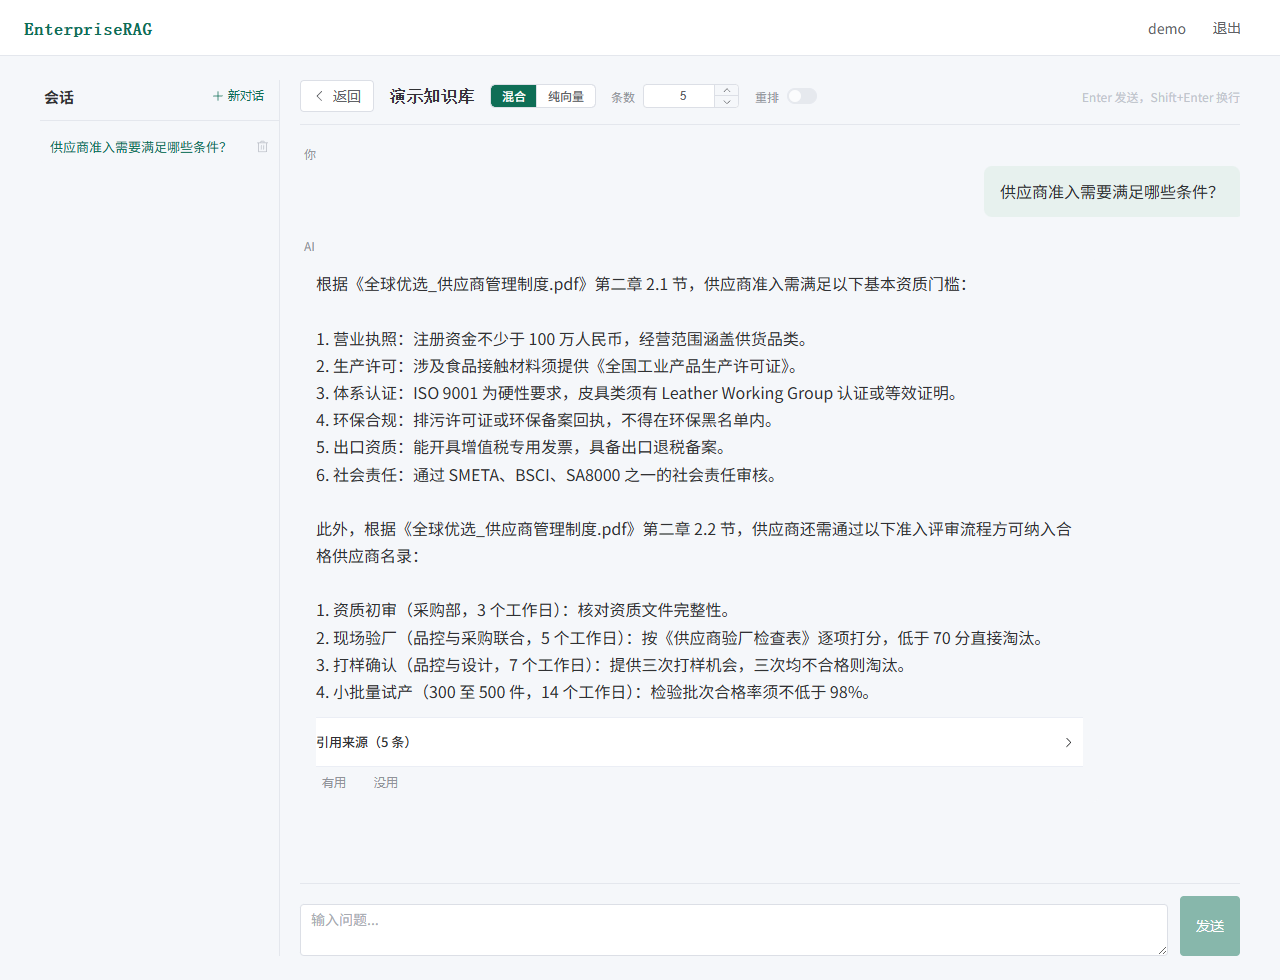
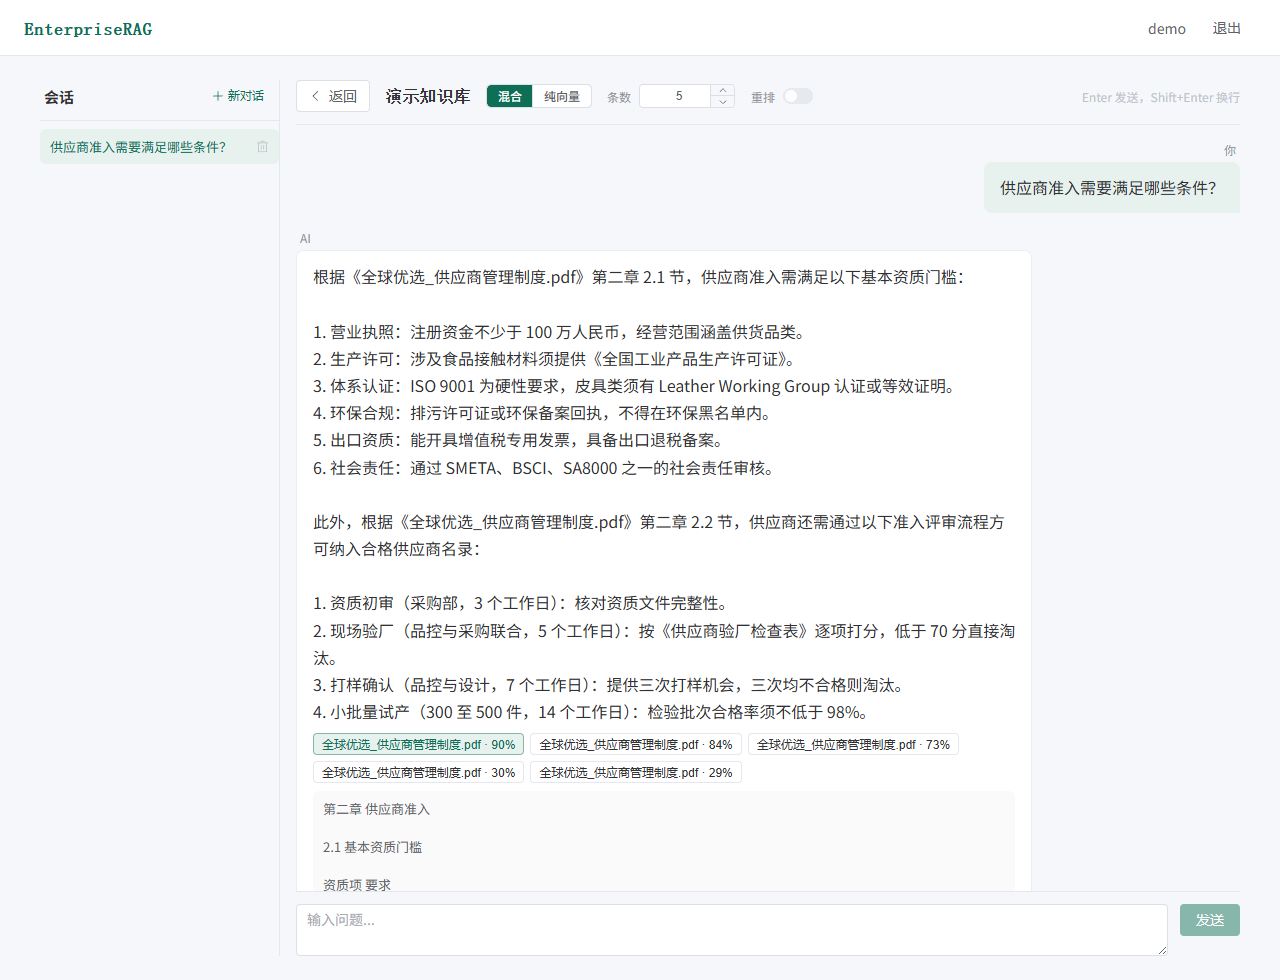
docs(design): Known Gaps 9 项清零收尾 —— DESIGN.md 十节翻绿 + README 实拍换图
- DESIGN.md §十：9 项全部标记完成，表格保留为对照基线；
  §八自检 8 问逐条过
- README 界面速览换新实拍（chat 气泡/引用芯片、kbs 按钮收敛），
  docs/screenshots 另存 diagnostics.png（StatCard 效果）
- README/AGENTS 前端测试计数 55 → 57（+2 StatCard spec）
- progress-log 记录三批改动与验证方式（纯样式改动以实拍核对代替
  K9 反向验证）

diff --git a/docs/progress-log.md b/docs/progress-log.md
@@ -90,3 +90,4 @@
 | 2026-10-03 | **K5 答案反馈闭环完成（阶段五第八块）** | 对话页每条 AI 回答下可点「有用 / 没用」，点「没用」后出现原因 chips（答非所问 / 信息错误 / 引用有误 / 内容过时 / 其他）。**数据侧**：新表 `message_feedback` —— `(message_id, user_id)` 唯一约束保证同一条消息一人一票，重复提交是 **upsert 更新**不是插新行；`create_all` 建表零迁移；随消息级联删除。**API**：`POST /api/kbs/{kb_id}/messages/{message_id}/feedback`（rating=up/down/null，null=清除；reason 必须在 `FEEDBACK_REASONS` 标签清单内 —— 固定清单而非自由文本是将来聚合的前提，清单经 `/api/config/chat` 的 `feedback_reasons` 下发，前后端单一来源）；`GET /api/kbs/{kb_id}/feedback` 按 KB 拉最近反馈（join message→conversation 过滤 + 答案预览截 80 字）—— **反馈不能只进不出**（K8 的教训：write-only 的数据等于没攒），这是将来「低分答案分析」的取数点。权限：只评自己会话里的 assistant 消息（跨 KB / 消息不存在 404、他人会话 403、user 消息 400）。**关键前置改造 —— message_id 贯通**：前端原本拿不到「刚流式生成的这条消息」的 id，无法对它提反馈；`_save_turn` 改为返回行并 `db.flush()` 取自增 id（commit 仍由外层 `open_db_session` / 请求期依赖负责），`done` 事件与 `AskResponse` 都带 `message_id`，前端在 done 时回填本地消息。**前端**（DESIGN.md 文字按钮形态：12px muted、激活态品牌色、chips 4px 圆角 hairline 边框）：「有用 / 没用」text button，点同一个 = 取消；会话详情把 feedback / feedback_reason 随消息带回，**刷新后状态不丢**；提交失败走 `extractErrorMessage`，不打断对话。**测试**：后端 405 → **414 collected / 0 failed / 113 skipped**（junit 口径；+9 全离线：upsert/改评/清除、非法 reason 422、非法 rating 422、user 消息 400、消息不存在 404、跨 KB 404、viewer 成员也不能评他人会话 403、列表 + 非成员 403 + limit 422；过程中照出成员管理端点收的是 `username` 不是 `user_id`）；前端 53 → **55**（+2：feedbackApi 的 URL + 请求体键名契约，漂移即红）；`vue-tsc --noEmit` exit 0、`vite build` 通过。需求卡片 `docs/requirements/K5-answer-feedback.md`。 |
 | 2026-10-05 | **v1.0 封版（快赢路线收口）** | 按 2026-10-03 排期决策（作品集定位 + 零星时间）完成最后一环：**README 门面** —— 新增「界面速览」（3 张真环境实截：对话页 / 知识库列表 / 检索质检台，headless chromium + 本地 dev 环境实拍，截图入 `docs/screenshots/`），全部过期计数同步（392→414 / 51→55 / 27→30 端点），K 系列表补 K5 / K7 ✅ 行、K4 标注暂缓、K6 标注移入候选；`AGENTS.md` 测试基线与状态表同步。**提交切两刀**：`8bb42be feat(chat)`（K7+K5 全部代码与文档，23 文件 +1508/-63）+ 本条 `docs(readme)`；CodeBuddy 残留工件（`.codebuddy/` / `CODEBUDDY.md` / `.mcp.json` / `.gitignore` 改动）按决策**继续留在工作区不提交**。**打 tag `v1.0`**。截图过程的两个小坑：`playwright-cli open` 每次新开页面会丢 localStorage（登录态全靠 SPA 内点击保持）；npx 包装脚本会联网装包被 npm 缓存权限挡住，直接用全局 `playwright-cli@0.1.8`。 |
 | 2026-10-05 | **K6 问答缓存完成（阶段五第九块，K 系列收官）** | 精确（键全等）+ 语义（余弦 ≥ 阈值）两级缓存。**键 = (kb_id, query_norm, mode, top_k, model)**，多轮（history 非空）一律不查不写；失效是 kb 级全量（`documents.py` 上传/删除成功后挂钩，删库走 FK 级联）；不做 TTL，超限 LRU；`cache_hit` 贯通 `AskResponse` / SSE `done` / 前端灰色「缓存」徽标（当次会话内显示，不落库）；流式命中时 sources 照常先发、答案按段重放成 token 事件。**三个值得记的发现**：①**roadmap 里的 0.95 是拍的、实测全打不中** —— 评测首跑三对同义改写全部 miss（余弦 0.878–0.889）；改用纯 embedding 校准（20 对探针、不调 LLM）：同义对最低 **0.8092** / 易混意图对最高 **0.7559**，取间隙内不贴边的 **0.78** 为默认，并用护栏测试 `test_default_cache_semantic_threshold_in_measured_gap` 钉住间隙（K3 相似度阈值同款纪律）；②**参数必须参与缓存键** —— 全量回归照出 K7 两例回归：语义匹配只看 (kb, mode) 时，同问不同 top_k / 换模型都会拿到旧缓存，「条数」和「快慢自选」被静默吞掉 → 修正为语义匹配限定同 mode + top_k + model，只对**问法**宽容（这版设计修正是测试逼出来的，卡片同步更新）；③**遮蔽 bug** —— `query_cache.py` 里组件类 `QueryCache` 把 `from app.core.models import QueryCache` 遮蔽掉，`db.query()` 拿到的是组件类直接 ArgumentError；因缓存故障设计为静默降级未命中，多数测试只表现为 miss，靠 `test_invalidate_kb` 的直接断言才现形 —— 同名导入必须起别名（`QueryCacheRow`）。**真环境评测**（`scripts/k6_cache_eval.py`，qwen3.7-text-embedding + qwen3.8-flash）：三对同义改写全部命中，**10.8s → 0.3s（36 倍）**；两对易混意图（0.68 / 0.61）与跨库串扰探针全部正确不命中；报告 `docs/eval/k6-cache.md`。**测试**：414 → **432 collected / 0 failed / 113 skipped**（junit 口径，+18 全离线：精确/规范化键、多轮不缓存、语义命中与阈值边界、语义可关、LRU、失效、故障降级、流式重放、接口层失效联动 + 阈值间隙护栏）；前端 55（徽标为纯展示，无新增用例）；`vue-tsc --noEmit` exit 0、`vite build` 通过。开发库 `query_cache` 表结构变更（键加 model）直接 DROP 重建（缓存数据可弃，无需迁移）。需求卡片 `docs/requirements/K6-qa-cache.md`。 |
+| 2026-10-05 | **前端门面打磨：DESIGN.md 十节 Known Gaps 9 项全部清零（非积木块，三批提交）** | 按 2026-10-05 排期讨论（作品集定位，功能面 44/45 + v1.0 已封版）决定：加功能的边际价值低于把"第一眼品质"拉满，而债单是 DESIGN.md 自己记录在案的。动工前先读 `design-guide.md`（硬规则）与 `design-manifest.md`（逐页方案），全部改动与 manifest 对齐。**批 1（21054af）基建与真 bug**：`style.css` 补 `--app-gap/--app-gap-sm` 与 `--fs-page/card/body/hint`（§二刻度）；Chat AI 气泡 `#f5f7fa` 改白底 + 1px 浅边框（与页面同色、边界不可见的真 bug）；气泡 float + `::after` 改 flex column + align-items，max-width 85% → 78%；输入区按钮 60px 硬编码 → `align-self: stretch`；KbsList 标题 22px → `var(--fs-page)`。**批 2（3a1a0d8）组件形态**：引用来源 `el-collapse` 改**引用芯片行**（`文件名 · 相似度%`，点击展开切片原文 —— 溯源是最大卖点不藏折叠面板，配合 K1 sources 前置）；KbsList 七个彩色按钮收敛为「进入对话」唯一实心主色 + 灰文字按钮组（原 primary/success/warning 混用违反"彩色只表达状态"）；新增 `components/StatCard.vue`（大数字 + 标签 + 语义 tone），Diagnostics / DocHealth 各写一份的 `.stat-card` 收敛为公共组件 —— 将来的数据看板直接复用。**批 3（4d65ef9）响应式**：会话面板抽成 `components/ChatConversations.vue`（桌面 `<aside>` 与窄屏抽屉共用一份标记）；`<1280px` 断点隐藏 240px 侧边栏、头部「会话」按钮唤起 `el-drawer`。**验证**：每批独立跑 vitest + `vue-tsc --noEmit` + `vite build`（57 用例全绿，+2 StatCard spec）；`DESIGN.md` §八自检 8 问逐条过；本地起真环境 headless 实拍三页核对视觉效果后，替换 README 界面速览的 chat/kbs 两图（`docs/screenshots/` 另存 diagnostics.png 备用）；`DESIGN.md` §十整节翻绿并保留为对照基线，`AGENTS.md` 同步"已清零、新页面勿复制旧写法"。纯样式改动无逻辑回归点；K9 反向验证不适用于 CSS（以实拍核对代替）。 |

diff --git a/AGENTS.md b/AGENTS.md
@@ -12,7 +12,7 @@
 - **模型**：阿里云百炼官方 / 智谱 GLM / 第三方中转站（`dashscope` 槽位）/ mock（离线可测），
   OpenAI 兼容接口；LLM / Embedding / Rerank **三插槽可分别指向不同供应商**
 - **鉴权**：bcrypt + JWT（python-jose, HS256）
-- **测试**：后端 pytest + httpx + TestClient（432 用例）；前端 vitest + jsdom + @vue/test-utils（55 用例）
+- **测试**：后端 pytest + httpx + TestClient（432 用例）；前端 vitest + jsdom + @vue/test-utils（57 用例）
 
 ## 目录结构
 
@@ -221,7 +221,8 @@ kb_2 刻意**混用三种格式**（1 docx + 1 md + 1 pdf）—— 它照出过 
 - `DESIGN.md` 定义「界面长什么样」，本文件定义「怎么搭」——两者分工不同，都要遵守
 - 它是唯一的设计 token 来源：颜色 / 字号 / 圆角 / 间距 / 组件形态都在里面，**不要在页面里臆造新值**
 - 完整的设计理念与历史决策见 `docs/design-guide.md`（去 AI 味硬规则）与 `docs/design-manifest.md`（逐页改造清单）
-- DESIGN.md 里 **十、Known Gaps** 列出的 9 项是「已知但尚未落地」的偏差，不要按现状把它们当正确做法去复制
+- DESIGN.md 里 **十、Known Gaps** 列出的 9 项偏差已于 2026-10-05 全部清零（见该节表格与 progress-log）——
+  新页面不要再复制旧页面的历史写法，直接按 DESIGN.md 的 token 与组件形态来。
 
 ## 开发约定（积木式开发）
 
@@ -254,7 +255,7 @@ kb_2 刻意**混用三种格式**（1 docx + 1 md + 1 pdf）—— 它照出过 
 - pgvector 相关用例单独标记，连不上自动跳过
 - 统一用 `TestClient(app, raise_server_exceptions=False)`
 - 清理测试数据走原生 psycopg2（规避 Python 3.13 上 SQLAlchemy immutabledict 的问题）
-- **前端**：`cd frontend && npm test`（vitest + jsdom，55 用例）。约定见上文「前端测试（K9）」
+- **前端**：`cd frontend && npm test`（vitest + jsdom，57 用例）。约定见上文「前端测试（K9）」
 - **junit 输出必须落到仓库内**（如 `.pytest-tmp/junit.xml`）：`/tmp` 在 Git Bash 与 Windows Python
   下不是同一个路径（实际落到 `D:\tmp`），写在 `/tmp` 会找不到文件
 - **看结果以 junit XML 的计数为准**：根节点是 `<testsuites>` 包装，`root.get('tests')` 返回 `None`，
@@ -323,4 +324,4 @@ python scripts/demo.py         # 离线冒烟（mock 供应商）
 | 问答缓存 K6（精确 + 语义两级，阈值实测 0.78，kb 级失效，多轮不缓存） | ✅ |
 | K4 摄取异步化（暂缓，触发条件见 docs/roadmap.md 排期决策） | ⬜ |
 
-**后端 432 测试全绿**（319 通过 / 113 跳过，跳过项需 PostgreSQL 或真实 API Key）+ **前端 55 测试全绿**。未排期项见 `docs/roadmap.md` 末尾（数据看板、异步摄取队列（K4 暂缓）、向量库可插拔、多模型配置、审计日志、SSO/LDAP、更多格式、RPA 集成）。
+**后端 432 测试全绿**（319 通过 / 113 跳过，跳过项需 PostgreSQL 或真实 API Key）+ **前端 57 测试全绿**。未排期项见 `docs/roadmap.md` 末尾（数据看板、异步摄取队列（K4 暂缓）、向量库可插拔、多模型配置、审计日志、SSO/LDAP、更多格式、RPA 集成）。

diff --git a/DESIGN.md b/DESIGN.md
@@ -475,20 +475,20 @@ hover 底色 `{colors.canvas}`；选中项底色 `{colors.brand-soft}` + 文字 
 
 ## 十、Known Gaps · 现状与规范的偏差
 
-按"改完肉眼可见"排序，这些是**已识别但尚未落地**的项
-（详细逐页方案见 `docs/design-manifest.md`）：
+> **2026-10-05：以下 9 项已全部清零**（三批提交，见 `docs/progress-log.md`）。
+> 表格保留作为历史记录与对照基线 —— 新页面仍应对照本节理解"什么是偏差"。
 
 | # | 项 | 状态 |
 |---|---|---|
-| 1 | `style.css` 尚未定义 `--app-gap` / `--fs-*` 刻度变量，间距与字号仍是散落的字面量 | ⬜ 未做 |
-| 2 | Chat AI 气泡背景 = 页面背景（`#f5f7fa`），气泡边界不可见 | ⬜ 未做（真 bug） |
-| 3 | Chat 气泡仍用 `float` + `::after clear`，未改 flex | ⬜ 未做 |
-| 4 | 引用来源仍是 `el-collapse` 折叠面板，未改成引用芯片 | ⬜ 未做 |
-| 5 | Chat 输入区按钮 `height: 60px` 硬编码 | ⬜ 未做 |
-| 6 | KbsList 每卡 5 个多色按钮，违反"彩色只表达状态" | ⬜ 未做 |
-| 7 | Diagnostics / DocHealth 各写一份 `.stat-card`，未抽公共组件 | ⬜ 未做 |
-| 8 | 页面标题仍混用 22px 与 20px | ⬜ 未做 |
-| 9 | 全站无响应式断点，窄屏（<1280px）下 240px 会话侧边栏会挤压对话区 | ⬜ 未做 |
+| 1 | `style.css` 尚未定义 `--app-gap` / `--fs-*` 刻度变量，间距与字号仍是散落的字面量 | ✅ 已定义（新代码用 token，旧代码分步收敛） |
+| 2 | Chat AI 气泡背景 = 页面背景（`#f5f7fa`），气泡边界不可见 | ✅ 改白底 + 1px 浅边框 |
+| 3 | Chat 气泡仍用 `float` + `::after clear`，未改 flex | ✅ flex column + align-items |
+| 4 | 引用来源仍是 `el-collapse` 折叠面板，未改成引用芯片 | ✅ 芯片行 + 点击展开切片原文 |
+| 5 | Chat 输入区按钮 `height: 60px` 硬编码 | ✅ `align-self: stretch` |
+| 6 | KbsList 每卡 5 个多色按钮，违反"彩色只表达状态" | ✅ 「进入对话」唯一主色 + 其余灰文字按钮 |
+| 7 | Diagnostics / DocHealth 各写一份 `.stat-card`，未抽公共组件 | ✅ `components/StatCard.vue` 两页共用 |
+| 8 | 页面标题仍混用 22px 与 20px | ✅ 归一到 `var(--fs-page)` |
+| 9 | 全站无响应式断点，窄屏（<1280px）下 240px 会话侧边栏会挤压对话区 | ✅ 断点收进「会话」el-drawer |
 
 > ✅ 已做对、**不要推翻**的：卡片"白底 + 1px 边框 + 8px 圆角"、品牌墨绿色阶、
 > 圆角分层变量、标题衬线/正文无衬线的双字体系、靠底色分层零阴影。

diff --git a/README.md b/README.md
@@ -4,7 +4,7 @@
 
 一条提问走完全程：文档上传 → 解析 → 切片 → 向量化 → 检索（向量 + 关键词双路）→ 重排 → 流式生成 → **每条答案都能点回原文**。
 
-> **后端 432 + 前端 55** 个测试用例全绿 · **30** 个 API 端点 · **10** 个前端页面 · **4** 种文档格式 · 全链路可离线运行
+> **后端 432 + 前端 57** 个测试用例全绿 · **30** 个 API 端点 · **10** 个前端页面 · **4** 种文档格式 · 全链路可离线运行
 
 ---
 
